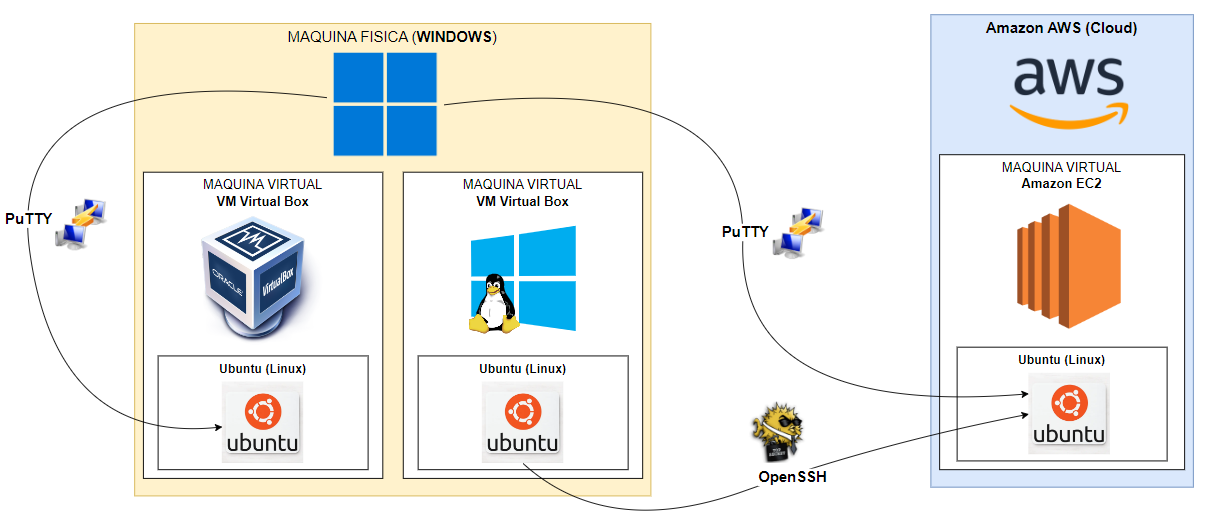
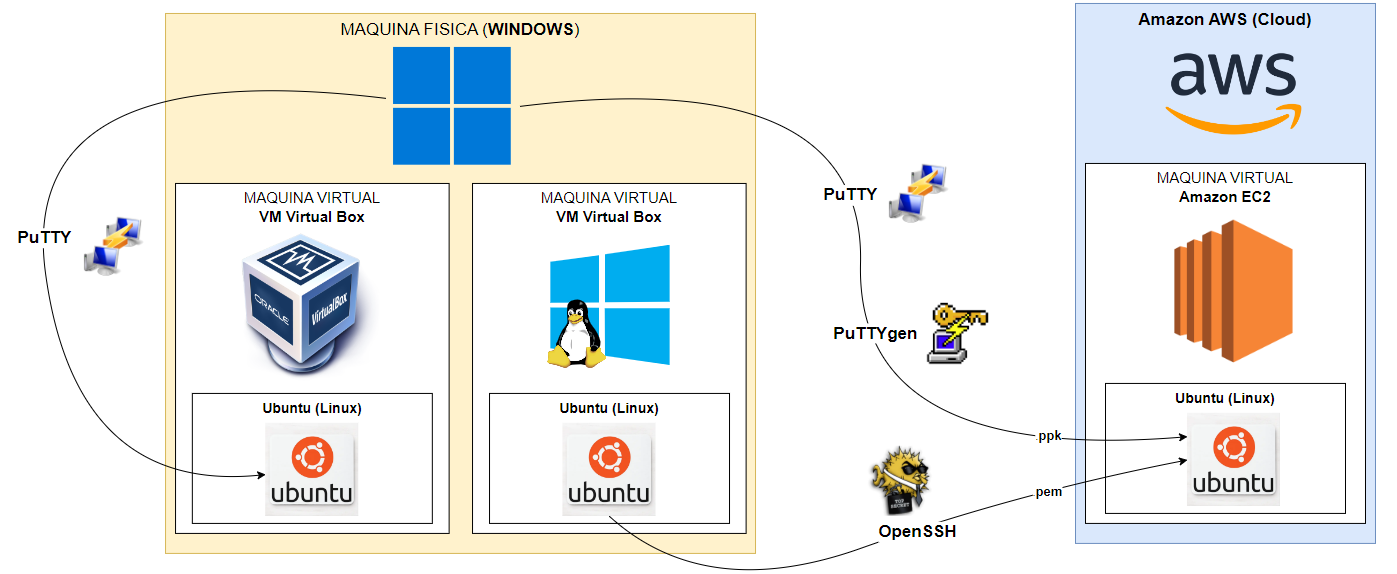
Alteração dos READMEs do boot_03 e diagrama

diff --git a/dio/linux/boot_03/02-linux/README.md b/dio/linux/boot_03/02-linux/README.md
@@ -37,7 +37,7 @@ Esta pasta é referente ao Módulo 2 **Primeiros Passos com o Sistema Operaciona
   - Google Drive <img src="../../../../0-outros/logos/software/google_drive.png" alt="google_drive" width="auto" height="25">
   - PuTTY <img src="../../../../0-outros/logos/software/putty.png" alt="putty" width="auto" height="25">
   - PuTTYgen <img src="../../../../0-outros/logos/software/puttygen.png" alt="puttygen" width="auto" height="25">
-  - OpenSSH <img src="../../../../0-outros/logos/software/putty.png" alt="openssh" width="auto" height="25">
+  - OpenSSH <img src="../../../../0-outros/logos/software/openssh.png" alt="openssh" width="auto" height="25">
   - Draw.io <img src="../../../../0-outros/logos/software/draw.io.png" alt="draw.io" width="auto" height="25">
 
 ---
@@ -74,14 +74,14 @@ O desenvolvimento deste módulo do Bootcamp foi dividido em oito cursos e um des
   Apenas aulas teóricas sobre introdução ao sistema operacional Linux e maquinas virtuais.
   
   ##### 2.2 Instalando o Linux
-  Neste curso foi realizado a instalação do sistema operacional Linux em três ambientes diferentes, sendo que em todos eles foi instalado a distribuição Ubuntu. O primeiro ambiente utilizado foi o software **VM Virtual Box**, onde através de uma imagem ISO do Ubuntu foi instanciado uma maquina virtual Linux voltada para servidor. Nesta maquina foi realizado uma configuração do adaptador de rede para que posteriormente fosse possível realizar o acesso remoto. O segundo ambiente foi na Cloud da **AWS**, através do serviço **Amazon EC2** foi instanciado uma maquina virtual do Linux Ubuntu. Já o terceiro ambiente foi através do **WSL**, que é um subsistema do Windows para Linux. Este último não foi realizado o processo de instalação, pois o mesmo já existe na maquina física e é o que é utilizado no dia a dia.
+  Neste curso foi realizado a instalação do sistema operacional Linux em três ambientes diferentes, sendo que em todos eles foi instalado a distribuição **Ubuntu**. O primeiro ambiente utilizado foi o software **VM Virtual Box**, onde através de uma imagem ISO do Ubuntu foi instanciado uma maquina virtual Linux voltada para servidor. Nesta maquina foi realizado uma configuração do adaptador de rede para que posteriormente fosse possível realizar o acesso remoto. O segundo ambiente foi na Cloud da **AWS**, através do serviço **Amazon EC2** foi instanciado uma maquina virtual do Linux Ubuntu. Já o terceiro ambiente foi através do **WSL**, que é um subsistema do Windows para Linux. Este último não foi realizado o processo de instalação, pois o mesmo já existe na maquina física e é o que é utilizado no dia a dia.
 
-  Para o funcionamento do **VM Virtual Box** foi necessário desabilitar o **hypervisorlaunchtype** através do Prompt de Comando do Windows (**cmd**). Já para o **WSL** foi necessário abilitar este recurso além de outros recursos como: **Plataforma de Maquina Virtual**, **Plataforma de Hipervisor do Windows** e **Subsistema do Windows para Linux**.
+  Para o funcionamento do **VM Virtual Box** foi necessário desabilitar o recurso **hypervisorlaunchtype** através do Prompt de Comando do Windows (**cmd**). Já para o **WSL** foi necessário abilitar este recurso além de outros recursos como: **Plataforma de Maquina Virtual**, **Plataforma de Hipervisor do Windows** e **Subsistema do Windows para Linux**.
 
   ##### 2.3 Acesso Remoto a Máquinas Linux
   Neste curso foi realizado o acesso remoto da maquina virtual (Linux Ubuntu) pela maquina física (Linux e Windows) em diferentes ambientes (Virtual Box, Cloud AWS, WSL) através do protocolo de rede **SSH**. No Windows foi necessário baixar e instalar o software **PuTTY** e **PuTTYgen** para criar esse tipo de conexão. Já no Linux foi necessário apenas instalar o **openSSH** no shell. Em ambos os casos foi necessário descobrir o IP da maquina virtual para realizar o acesso remoto.
        
-  Foi realizado o acesso remoto tanto de uma maquina física Linux (no caso, utilizei o WSL) na maquina virtual Linux em um ambiente de Cloud na AWS (Linux dentro de um Windows para Linux na Cloud), e também de uma maquina física Windows na maquina virtual Linux para os ambientes de Cloud na AWS e através do software de maquina virtual, o VM Virtual Box (Windows para Linux). A imagem 02 a seguir, ilustra o desenvolvimento.
+  Foi realizado o acesso remoto tanto de uma maquina física Linux (no caso, utilizei o WSL) na maquina virtual Linux em um ambiente de Cloud na AWS (Linux dentro de um Windows para Linux na Cloud), e também de uma maquina física Windows na maquina virtual Linux para os ambientes de Cloud na AWS e através do software de maquina virtual, o VM Virtual Box (Windows para Linux). O diagrama da imagem 02 a seguir, desenvolvido no site **Draw.io**, ilustra o desenvolvimento.
 
   <div align="Center"><figure>
     <img src="../0-img/md2_img02.png" alt="img02"><br>
@@ -91,6 +91,9 @@ O desenvolvimento deste módulo do Bootcamp foi dividido em oito cursos e um des
   No ambiente de Cloud, ao criar a instância da maquina virtual Ubuntu no serviço Amazon EC2 foi necessário criar um arquivo de credencial no formato **.pem** para que fosse utilizado no Linux. Já no Windows, precisou do software **PuTTYgen** para abrir este arquivo e salvá-lo como formato **.ppk**, sendo possível criar uma senha para acesso.
 
   ##### 2.4 Manipulando Arquivos no Linux
-  Neste curso foi realizado os procedimentos básicos de manipulação de arquivos no sistema Linux utilizando a maquina virtual Linux Ubuntu criada no VM Virtual Box. Dentre os procedimentos foram feitos: navegação no sistema de arquivo (cd e pwd), filtragem e exibição de arquivos (ls), localização de arquivos (find), criação e exclusão de diretórios (mkdir e rmdir), criação de arquivos vazios (touch), utilização dos comandos de ajuda (help e man), execução de tarefas administrativas como root (sudo), acesso como usuário root (su), acesso remoto no Linux como usuário root pelo Windows através do PuTTY, exibição do conteúdo de um arquivo (cat), utilização de editores de textos (vi e nano), exibição do histórico de últimos comandos do usuário (history), localização de informação (grep), entre outros comandos básicos. Os comandos foram executados no interpretador de linha de comando (CLI) do Linux (**bash**) via acesso remoto pelo PuTTY.
+  Neste curso foi realizado os procedimentos básicos de manipulação de arquivos no sistema Linux utilizando a maquina virtual Linux Ubuntu criada no **VM Virtual Box**. Dentre os procedimentos foram feitos: navegação no sistema de arquivo (`cd` e `pwd`), filtragem e exibição de arquivos (`ls`), localização de arquivos (`find`), criação e exclusão de diretórios (`mkdir` e `rmdir`), criação de arquivos vazios (`touch`), utilização dos comandos de ajuda (`help` e `man`), execução de tarefas administrativas como root (`sudo`), acesso como usuário root (`su`), acesso remoto no Linux como usuário root pelo Windows através do **PuTTY**, exibição do conteúdo de um arquivo (`cat`), utilização de editores de textos (`vi` e `nano`), exibição do histórico de últimos comandos do usuário (`history`), localização de informação (`grep`), entre outros comandos básicos. Os comandos foram executados no interpretador de linha de comando (CLI) do Linux **Ubuntu** (**bash**) via acesso remoto pelo **PuTTY**.
 
-  O acesso remoto como usuário root precisou realizar uma alteração no arquivo do Linux `/etc/ssh/sshd_config` modificando a linha `#PermitRootLogin prohibit-password` retirando o comentário e trocando o **prohibit-password** para **yes**. Em seguida, foi necessário reiniciar o serviço através do comando `systemctl restart sshd` para que a alteração fossem concretizada. Após isso, o procedimento foi o mesmo realizado com usuário criado através do **PuTTY**, a diferença foi trocar as credenciais de acesso para a do usuário root.
+  O acesso remoto como usuário root precisou realizar uma alteração no arquivo do Linux `/etc/ssh/sshd_config` modificando a linha `#PermitRootLogin prohibit-password` retirando o comentário e trocando o **prohibit-password** para **yes**. Em seguida, foi necessário reiniciar o serviço através do comando `systemctl restart sshd` para que a alteração fosse concretizada. Após isso, o procedimento foi o mesmo realizado com usuário criado através do **PuTTY**, a diferença foi trocar as credenciais de acesso para a do usuário root.
+
+  ##### 2.5 Gerenciando Usuários no Linux  
+  TODO

diff --git a/dio/linux/boot_03/01.05-logica_programacao/README.md b/dio/linux/boot_03/01.05-logica_programacao/README.md
@@ -4,19 +4,19 @@
 #### Plataforma: <a href="../../../">dio   <img src="../../../../0-outros/logos/plataforma/dio.jpeg" alt="dio" width="auto" height="25"></a>   
 #### Software/Assunto: <a href="../../">linux   <img src="../../../../0-outros/logos/software/linux.png" alt="linux" width="auto" height="25"></a>
 #### Bootcamp: <a href="../">boot_03 (Linux do Zero)   <img src="../0-img/logo_boot.png" alt="boot_03" width="auto" height="25"></a>
-#### Curso: 1.05) Introdução à Programação e Pensamento Computacional
+#### Curso: 1.5) Introdução à Programação e Pensamento Computacional
 ---
 
 Esta pasta é referente ao curso **Introdução ao Desenvolvimento Moderno de Software** do Módulo 1 **Preparando-se Para a Jornada** do Bootcamp **Linux do Zero**.
 
 #### Tema:
-- Sistemas Operacionais
+- Lógica de Programação
 
 #### Ferramentas Utilizadas:
 - Pseudocódigo:
   - Portugol <img src="../../../../0-outros/logos/software/portugol.png" alt="portugol" width="auto" height="25">
 - Ambiente de Desenvolvimento (IDE):
-  - VS Code   <img src="../../../../0-outros/0-outros/logos/software/vscode.png" alt="vscode" width="auto" height="25">
+  - VS Code   <img src="../../../../0-outros/logos/software/vscode.png" alt="vscode" width="auto" height="25">
   - Portugol Studio   <img src="../../../../0-outros/logos/software/portugol.png" alt="portugol_studio" width="auto" height="25">
 - Versionamento: 
   - Git   <img src="../../../../0-outros/logos/software/git.png" alt="git" width="auto" height="25">
@@ -31,29 +31,24 @@ Esta pasta é referente ao curso **Introdução ao Desenvolvimento Moderno de So
 - O objetivo desse curso foi introduzir os conceitos básicos de lógica de programação e pensamento computacional.
 
 #### Estrutura:
-- Como esse curso foi boa parte teórico, só foram criados três arquivos de scripts em Portugol para execução de funções simples e conhecimento da lógica de programação.
+- Como esse curso foi boa parte teórico, só foram criados três arquivos de scripts em Portugol para execução de funções simples e conhecimento da lógica de programação, além deste arquivo de README.
 
 #### Desenvolvimento:
-Em relação ao desenvolvimento, os arquivos de scripts realizados foram condificações simples apenas para conhecimento do pseudocódigo **Portugol**. Esses três foram desenvolvidos na plataforma online **Portugol Studio**. O primeiro de nome **soma_intervalo.por**, onde foi criada duas funções, a primeira para receber os valores das variáveis X e Y e passá-las para uma outra função que calcula a soma de todos os números de um intervalo de números determinados. Abaixo, é exibido essa segunda função.
+Em relação ao desenvolvimento, os arquivos de scripts realizados foram codificações simples apenas para conhecimento do pseudocódigo **Portugol**. Esses três foram desenvolvidos na plataforma online **Portugol Studio**. O primeiro de nome **soma_intervalo.por**, onde foi criada duas funções, a primeira para receber os valores das variáveis X e Y e passá-las para uma outra função que calcula a soma de todos os números de um intervalo de números determinados. Abaixo é exibida essa segunda função.
 
 ```
-// Recebe as notas dos alunos e exibe o resultado do cálculo da média pela outra função
-	funcao inicio() {
-		real n1, n2, nota1, nota2
-		escreva("Digite as notas da p1 e p2 do aluno A: ")
-		leia(n1)
-		leia(n2)
-		
-		escreva("Digite as notas da p1 e p2 do aluno B: ")
-		leia(nota1)
-		leia(nota2)
-		
-		escreva("Média do aluno A: ", media_aluno(n1, n2))
-		escreva("\nMédia do aluno B: ", media_aluno(nota1, nota2))
+// Calcula a soma de todos os números de um intervalo de números determinado
+	funcao inteiro soma_intervalo(inteiro x, inteiro y){
+	    inteiro total, resultado_parcial
+	    total = y /2 
+	    resultado_parcial = y+x
+	    
+	    inteiro resultado = total * resultado_parcial
+	    retorne resultado
 	}
 ```
 
-Já no segundo arquivo de script (**media.por**), também com duas funções, sendo uma que recebe duas notas dos alunos hipotéticos A e B, chama a outra função passando a nota desses alunos, esta outra função calcula a média desses alunos e devolve para a primeira função que exibe a média desses alunos.
+Já no segundo arquivo de script (**media.por**), também com duas funções, sendo uma que recebe duas notas dos alunos hipotéticos A e B e chama uma outra função passando as notas desses alunos. Esta outra função, por sua vez, calcula a média desses alunos e devolve para a primeira função que exibe a média desses alunos.
 
 ```
 programa {

diff --git a/dio/linux/boot_03/01.07-github/README.md b/dio/linux/boot_03/01.07-github/README.md
@@ -4,11 +4,11 @@
 #### Plataforma: <a href="../../../">dio   <img src="../../../../0-outros/logos/plataforma/dio.jpeg" alt="dio" width="auto" height="25"></a>   
 #### Software/Assunto: <a href="../../">linux   <img src="../../../../0-outros/logos/software/linux.png" alt="linux" width="auto" height="25"></a>
 #### Bootcamp: <a href="../">boot_03 (Linux do Zero)   <img src="../0-img/logo_boot.png" alt="boot_03" width="auto" height="25"></a>
-#### Curso: 1.07) Criando seu Primeiro Repositório no GitHub para Compartilhar Seu Progresso
+#### Curso: 1.7) Criando seu Primeiro Repositório no GitHub para Compartilhar Seu Progresso
 
 ---
 
-Esta pasta é referente ao Desafio de Projeto **Criando seu Primeiro Repositório no GitHub para Compartilhar Seu Progresso** que faz parte do Módulo **Prepara-se Para a Jornada** do Bootcamp **Linux do Zero**.
+Esta pasta é referente ao Desafio de Projeto **Criando seu Primeiro Repositório no GitHub para Compartilhar Seu Progresso** que faz parte do Módulo 1 **Prepara-se Para a Jornada** do Bootcamp **Linux do Zero**.
 
 #### Tema:
 - Versionamento
@@ -30,4 +30,4 @@ Esta pasta é referente ao Desafio de Projeto **Criando seu Primeiro Repositóri
 - Como esse desafio foi apenas para criar um repositório no GitHub, nenhum arquivo além desse README.md foi necessário.
 
 #### Desenvolvimento:
-O desenvolvimento foi a criação do repositório.
+O desenvolvimento desse desafio foi somente a criação do repositório.

diff --git a/dio/linux/boot_03/README.md b/dio/linux/boot_03/README.md
@@ -76,4 +76,4 @@
 </figure></div><br>
 
 #### Desenvolvimento:
-Em relação ao desenvolvimento, cada desafio ou curso tiveram seus objetivos específicos. Por tanto, a explicação sobre cada um está contida na sua respectiva pasta, seguindo a estruturação determinada no Bootcamp. Observe que a estruturação do Bootcamp é composta por 4 módulos e em cada módulo alguns cursos e desafios. Os índices que forem clicáveis, direcionará para a pasta referente ao curso ou desafio selecionado e então será exibido as informações do projeto prático realizado. Já os índices não clicáveis, foram apenas cursos teóricos que não houve parte prática realizada.
+Em relação ao desenvolvimento, cada desafio ou curso tiveram seus objetivos específicos. Por tanto, a explicação sobre cada um está contida na sua respectiva pasta, seguindo a estruturação determinada no Bootcamp. Observe que a estruturação do Bootcamp é composta por 4 módulos e em cada módulo alguns cursos e desafios. Os índices que forem clicáveis, direcionará para a pasta referente ao módulo, curso ou desafio selecionado e então será exibido as informações do projeto prático realizado. Já os índices não clicáveis, foram apenas cursos teóricos que não houveram parte prática realizada.
